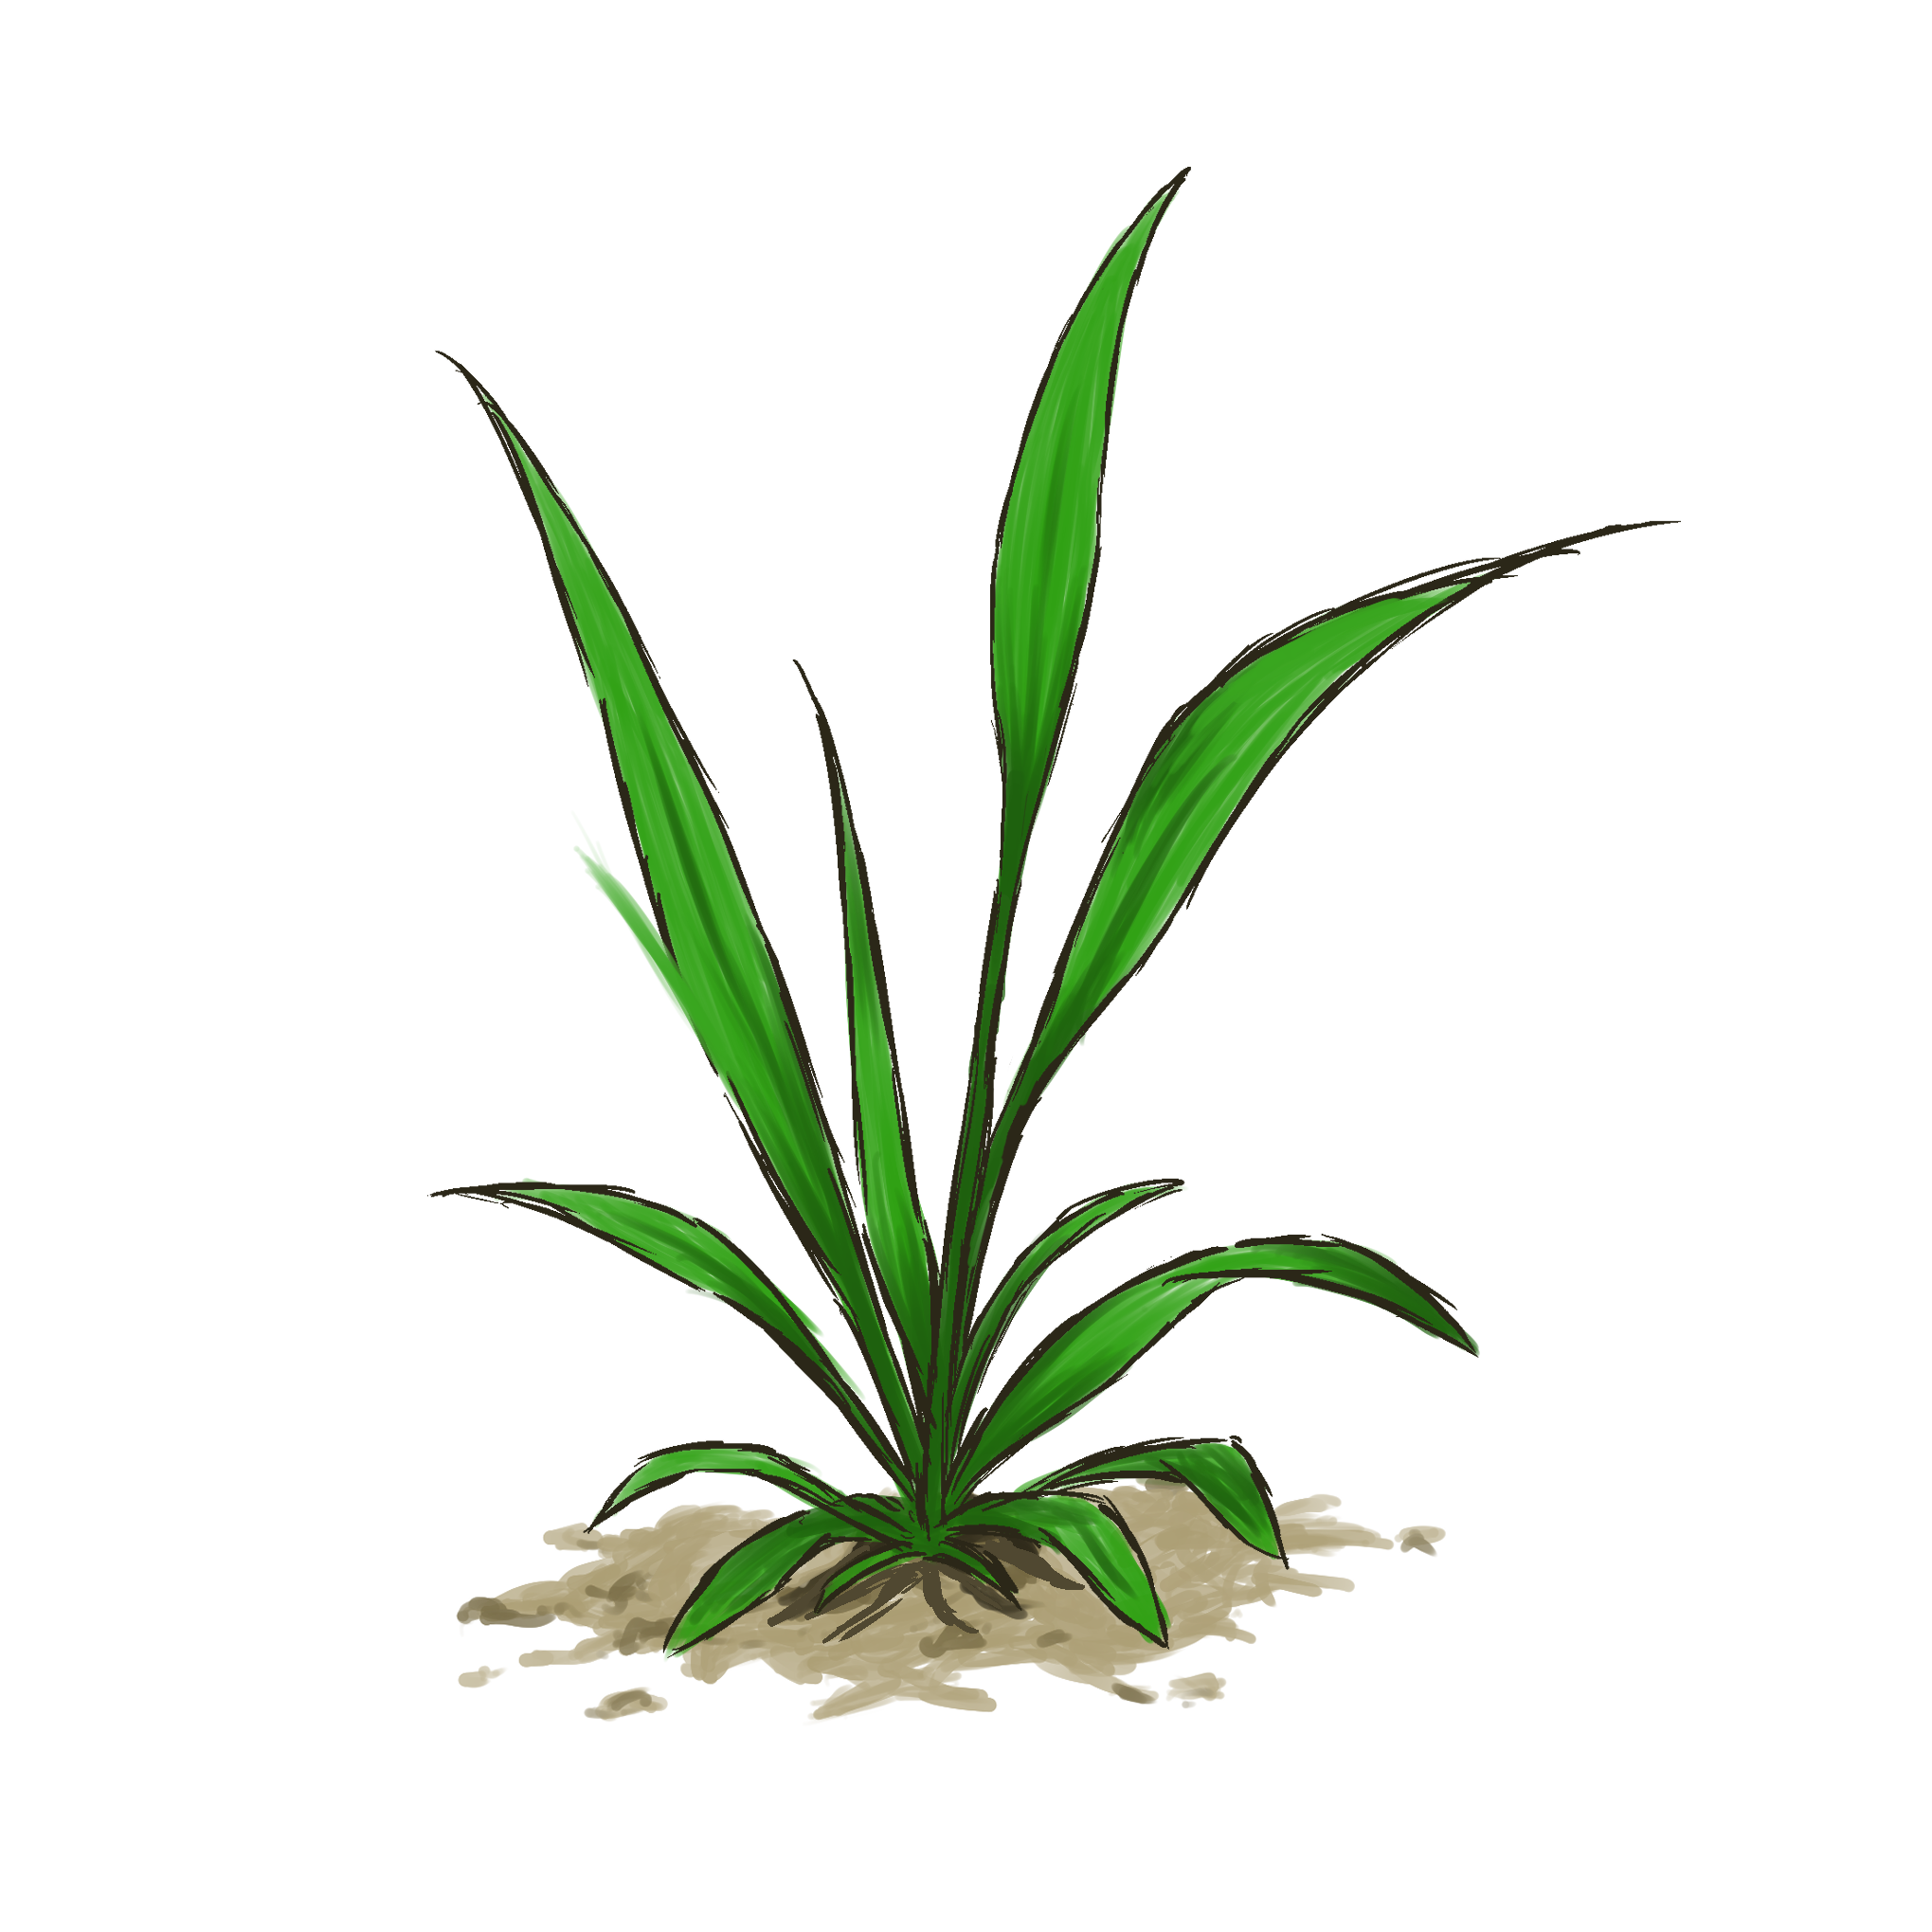
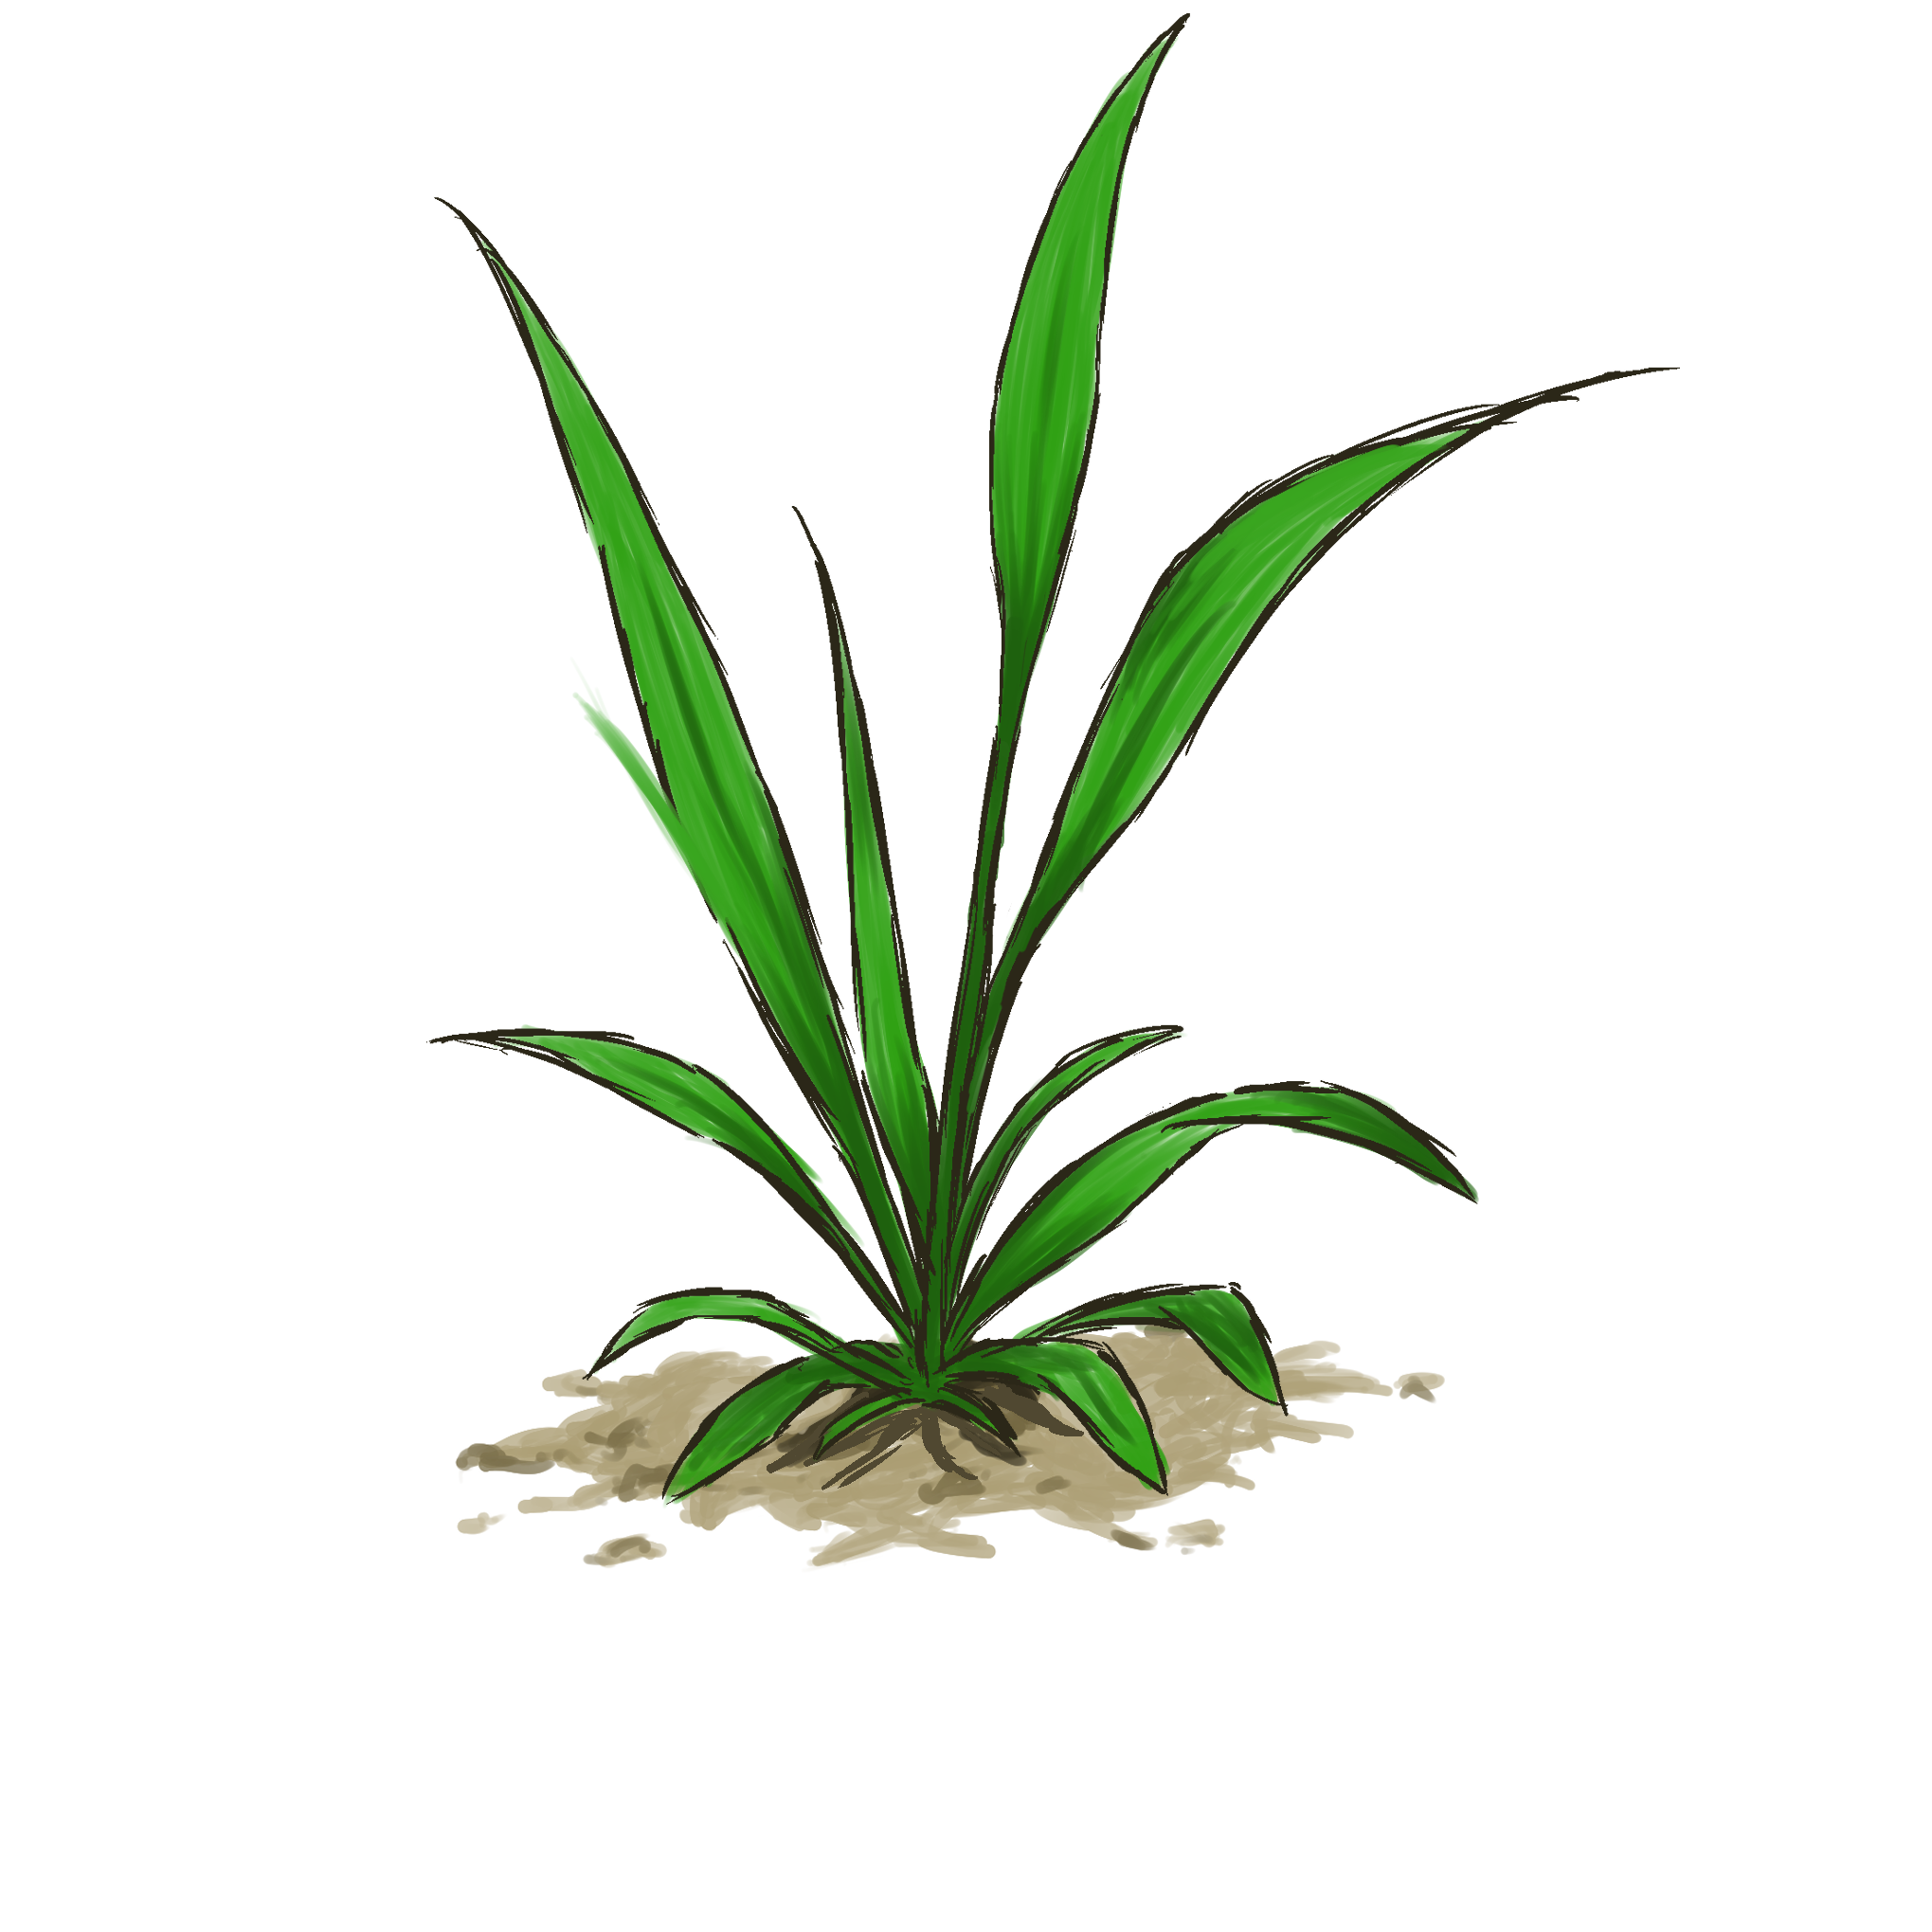
SEの問題解決、草の座標ずれ修正

Changed region(s): [[0.2163, 0.0, 0.8342, 0.896], [0.8342, 0.2472, 0.8651, 0.2781]]

diff --git a/Assets/ICHIKAWAKUSAMUSHIRIFILE/Script/Grass.cs b/Assets/ICHIKAWAKUSAMUSHIRIFILE/Script/Grass.cs
@@ -1,5 +1,6 @@
-using UnityEngine;
 using System.Collections;
+using UnityEngine;
+using UnityEngine.Audio;
 
 public class Grass : MonoBehaviour
 {
@@ -17,12 +18,17 @@ public class Grass : MonoBehaviour
 
     private SpriteRenderer sr;
 
+    [Header("SE")]
+    public AudioClip harvestSE;
+
+    private AudioSource audioSource;
 
     void Awake()
     {
         currentHp = maxHp;
 
         sr = GetComponent<SpriteRenderer>();
+        audioSource = GetComponent<AudioSource>();
 
         StartCoroutine(GrowGrass());
     }
@@ -60,6 +66,17 @@ public class Grass : MonoBehaviour
 
         CursorManager.Instance.PlayHitCursor(0.15f);
 
-        Destroy(gameObject, 0.1f);
+        GetComponent<SpriteRenderer>().enabled = false;
+        GetComponent<Collider2D>().enabled = false;
+
+        if (harvestSE != null)
+        {
+            audioSource.PlayOneShot(harvestSE);
+            Destroy(gameObject, harvestSE.length);
+        }
+        else
+        {
+            Destroy(gameObject);
+        }
     }
 }